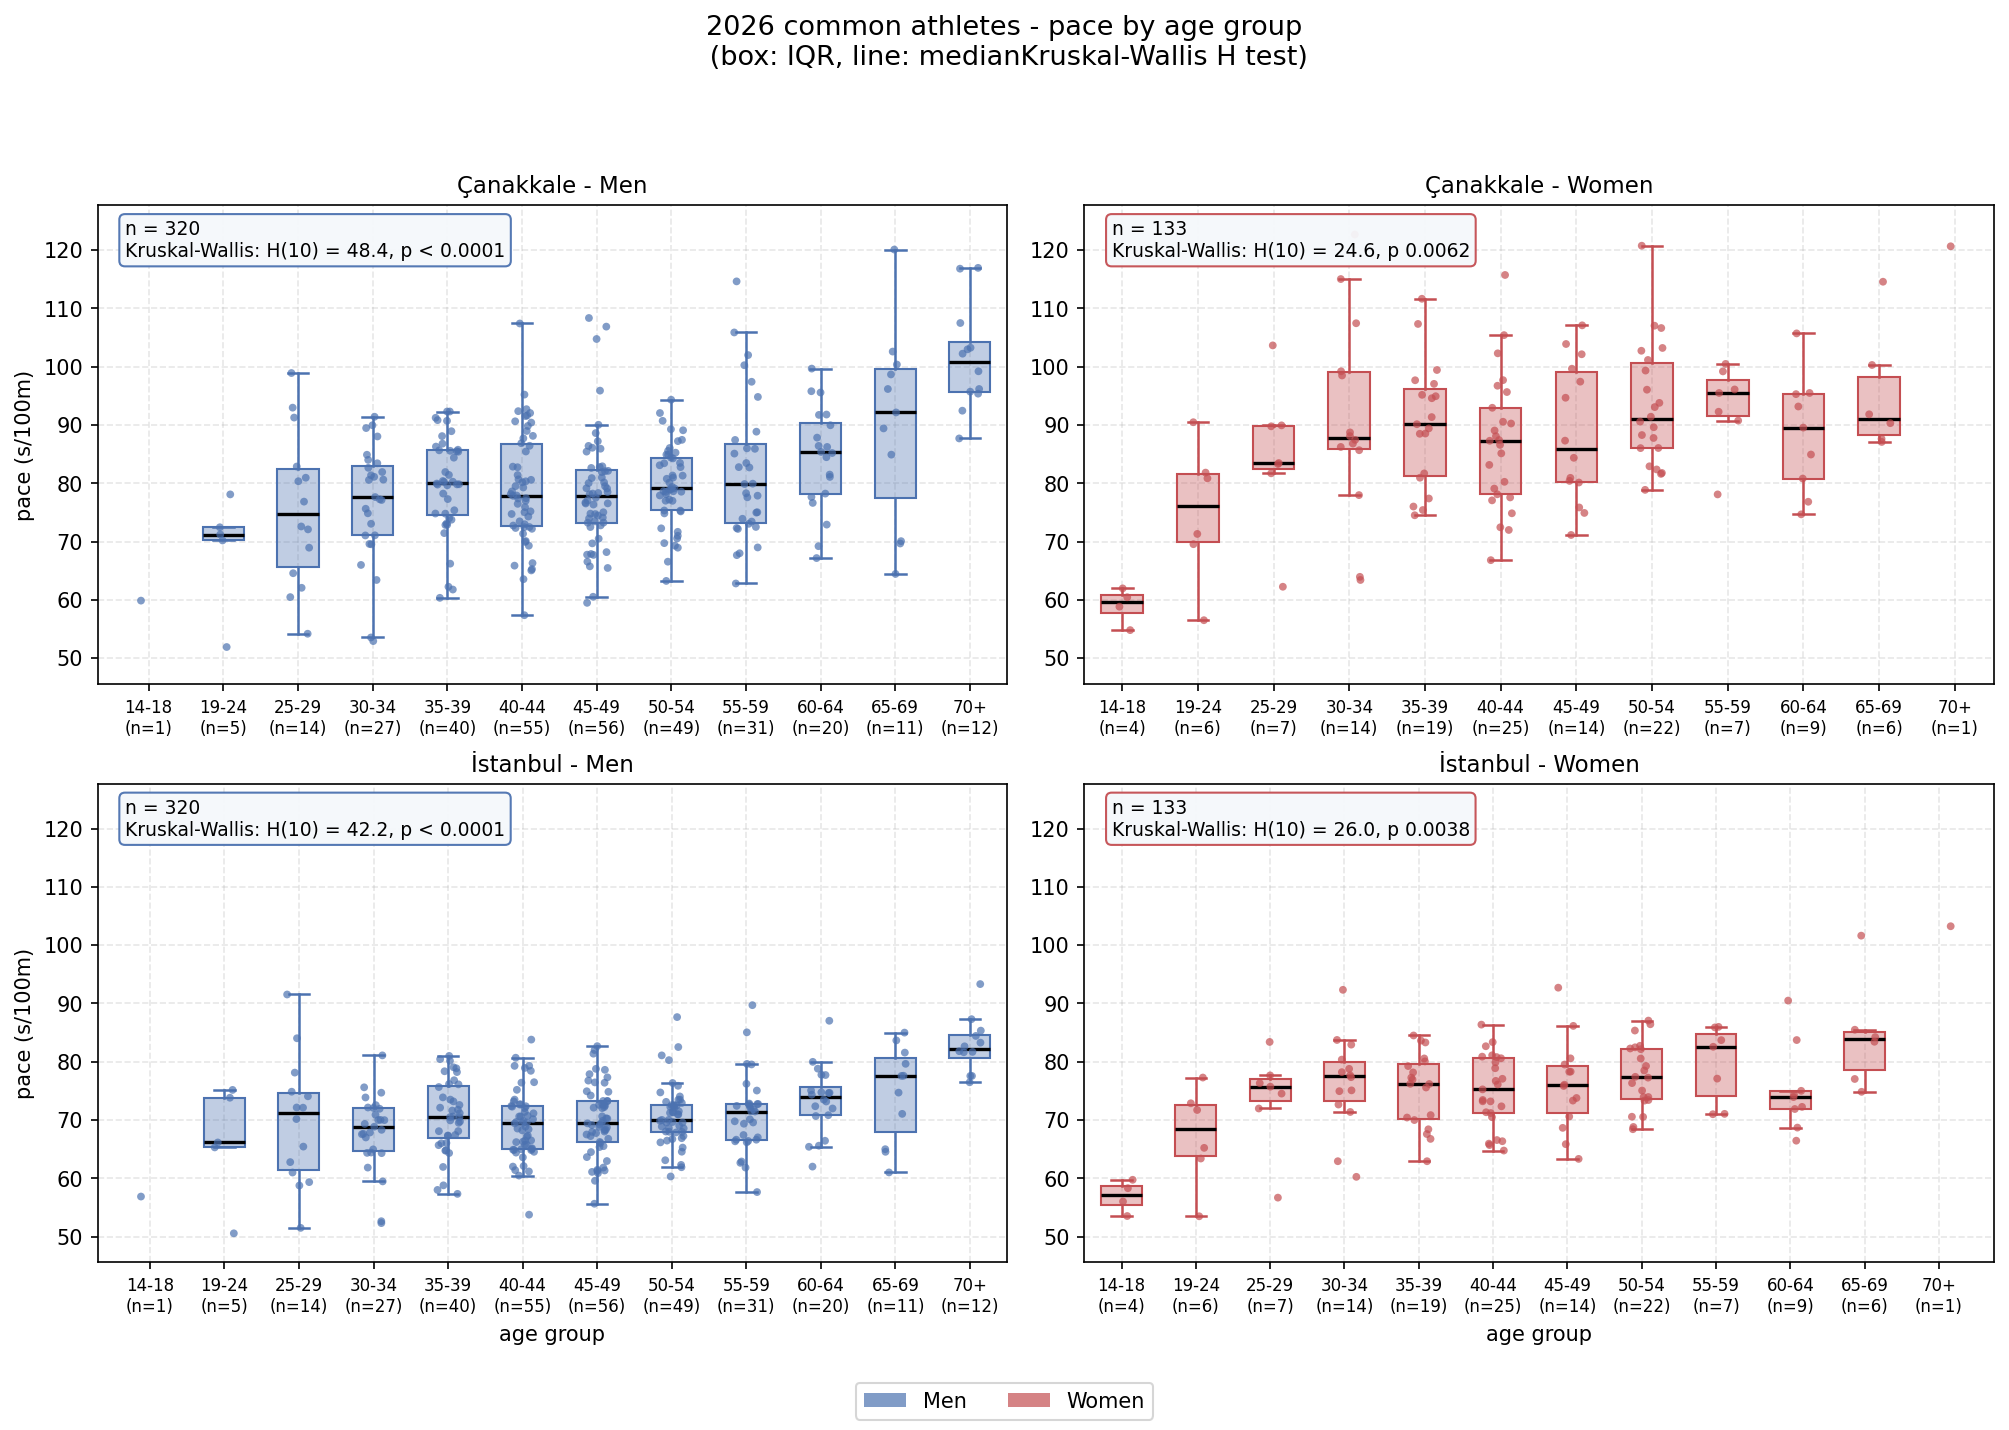
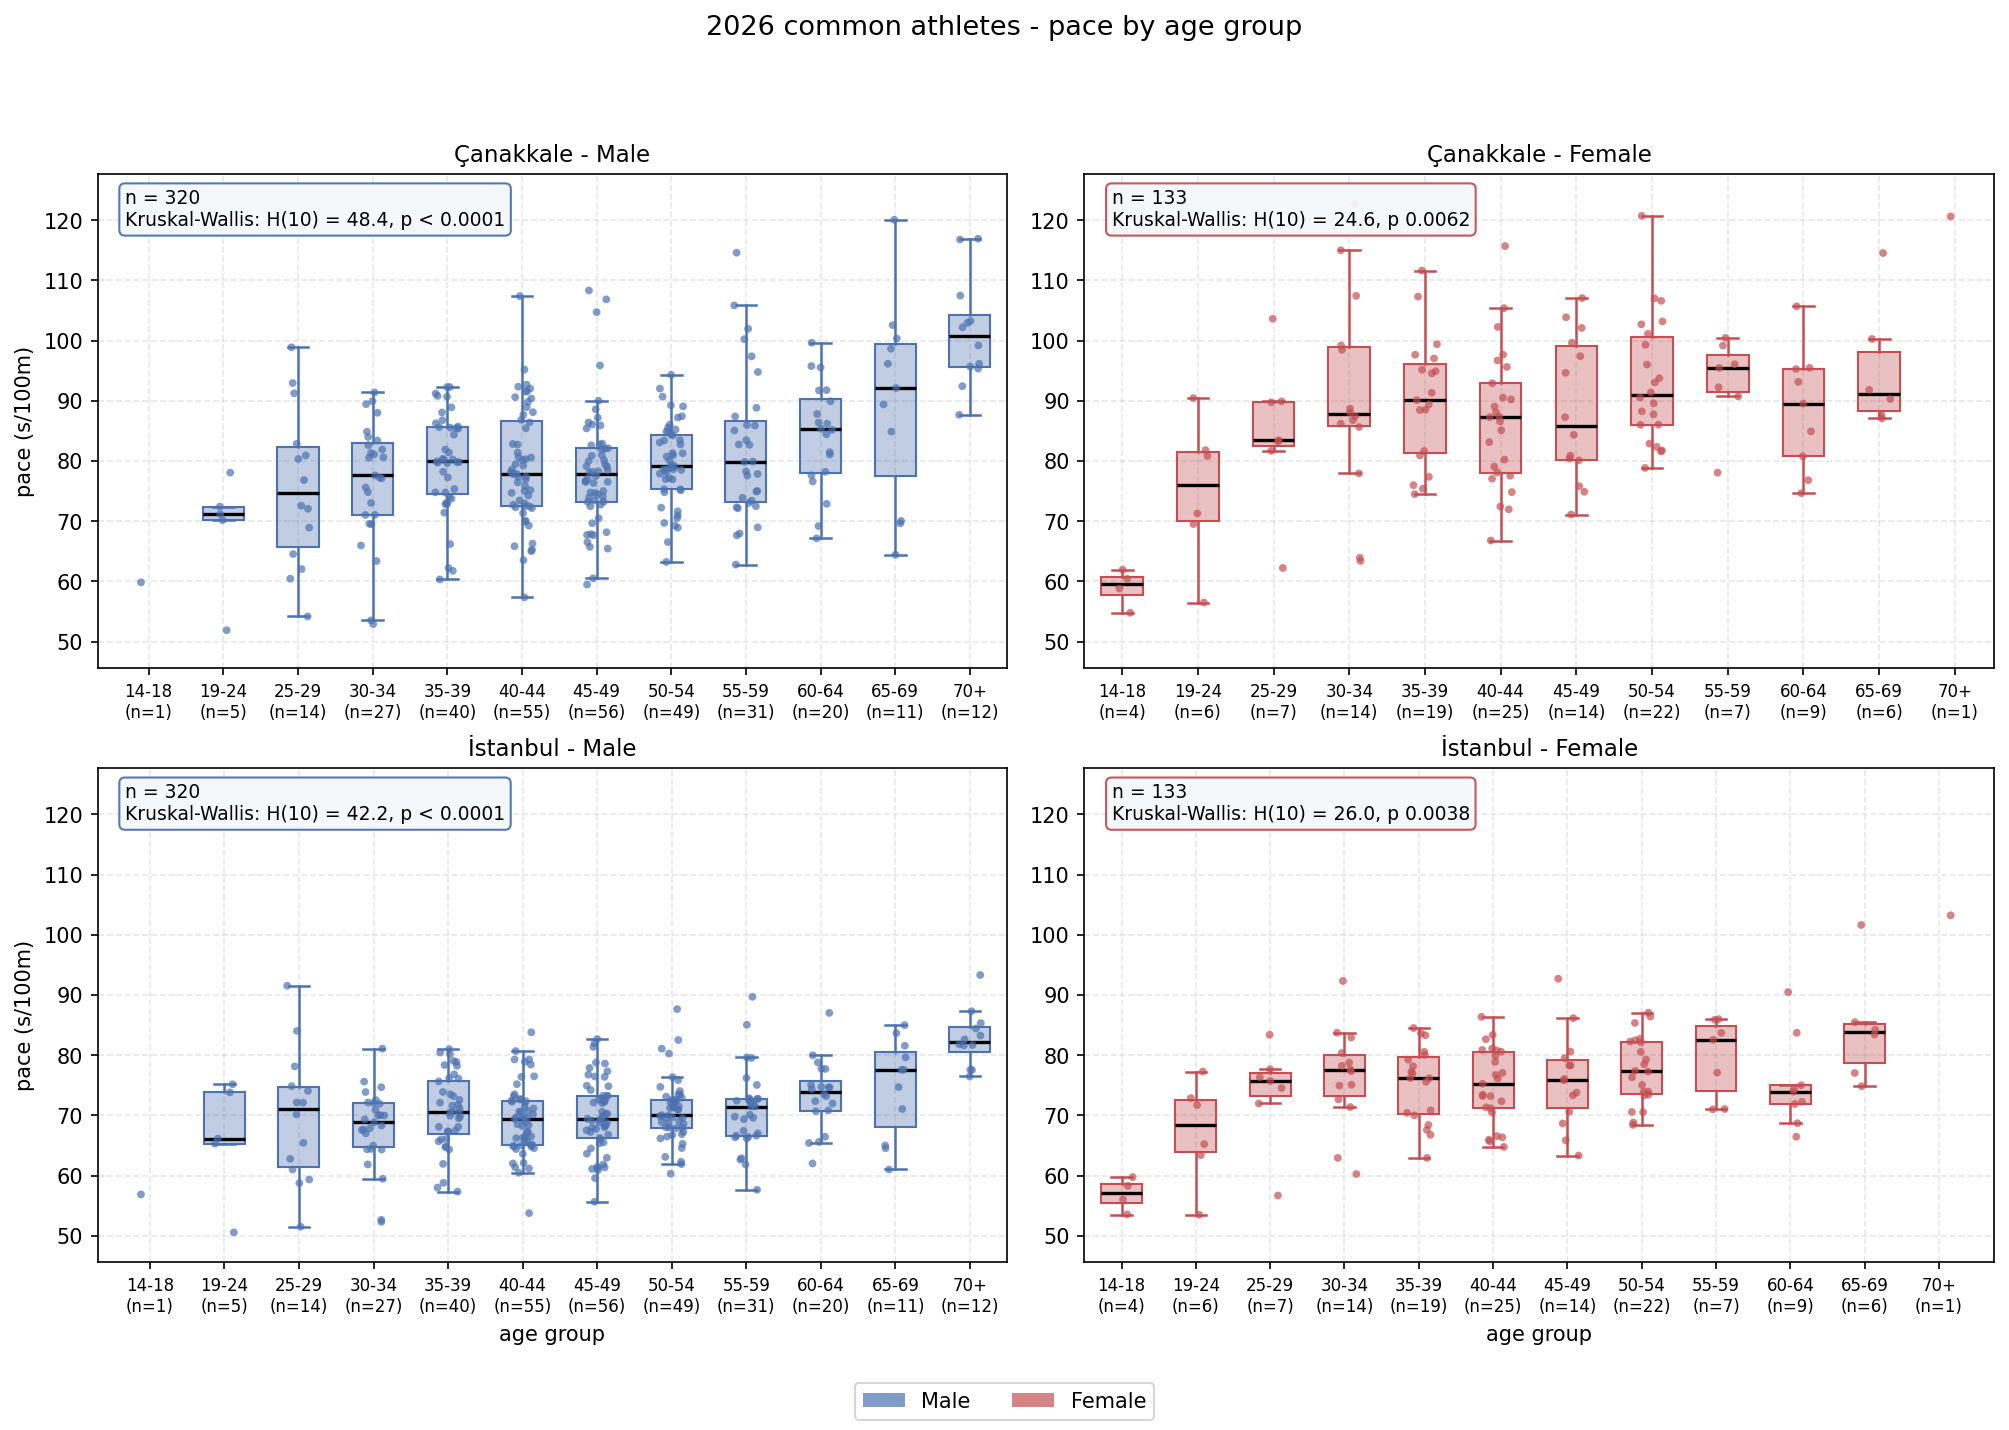
feat(charts): remove docstrings and comments

diff --git a/2026/common_2026_charts.py b/2026/common_2026_charts.py
@@ -1,24 +1,3 @@
-from __future__ import annotations
-
-"""
-Çıktılar:
-  2026/output/canakkale_vs_istanbul_common_pace.png -> tempo korelasyon grafiği
-     (sahibin noktası bib 230 / bib 1831 - Hakkı Erdem Günal, M, 2004 -
-     koyu kalın mavi nokta ile vurgulanır ve legendde adı + bib ile geçer)
-  2026/output/age_group_kruskal_wallis.png  -> yaş grubu x tempo + K-W testi
-
-Veri, common_2026_dataset modülündeki load_common() ile HAM datasetlerden
-yeniden kurulur; yani önce common_2026_dataset.py çalıştırılması gerekmez
-(common_2026_dataset.csv bu grafiklerin girdisi değildir).
-
-Not: Mesafeler (5 km vs 6.5 km) farklı olduğundan korelasyon için tempo
-sütunlarını (pace_*_s100m) kullanın.
-
-Kullanım:
-  python3 common_2026_charts.py         # grafikleri üretir (kaydeder)
-  python3 common_2026_charts.py --show  # grafiği pencere olarak aç (kaydetmez)
-"""
-
 import argparse
 import math
 import re
@@ -50,18 +29,12 @@ CHART_PNG = OUT_DIR / "canakkale_vs_istanbul_common_pace.png"
 KW_CHART_PNG = OUT_DIR / "age_group_kruskal_wallis.png"
 
 def _p_two_sided(r, n):
-    """H0: gerçek korelasyon = 0 için iki kuyruklu yaklaşık p-değeri.
-
-    t = r * sqrt((n - 2) / (1 - r^2))  büyük n'de yaklaşık standart normaldir.
-    scipy bağımlılığı olmasın diye normal CDF (erfc) ile hesaplanır.
-    """
     if n <= 3 or not -1.0 < r < 1.0:
         return float("nan")
     t = r * math.sqrt((n - 2) / (1.0 - r * r))
     return math.erfc(abs(t) / math.sqrt(2.0))
 
 def _pearson_ci95(r, n):
-    """Pearson r için Fisher z dönüşümüyle %95 güven aralığı."""
     if n <= 3 or not -1.0 < r < 1.0:
         return float("nan"), float("nan")
     z = math.atanh(r)
@@ -74,10 +47,6 @@ def _fmt_p(p):
     return "< 0.0001" if p < 0.0001 else f"{p:.4f}"
 
 def age_band_of(value):
-    """Age_group etiketinden yaş bandını çıkarır.
-
-    'Male 19-24' ve 'Male B(19-24)' -> '19-24''Male 70+' -> '70+'.
-    """
     s = "" if value is None or pd.isna(value) else str(value)
     m = re.search(r"\(([^()]*)\)", s)
     inner = m.group(1) if m else s
@@ -85,16 +54,10 @@ def age_band_of(value):
     return mm.group(1).replace(" ", "") if mm else inner.strip()
 
 def band_sort_key(band):
-    """Yaş bandını sıralamak için: '19-24' -> 19, '70+' -> 70."""
     m = re.match(r"\s*(\d{1,2})", str(band))
     return int(m.group(1)) if m else 999
 
 def _chi_square_sf(x, df):
-    """Ki-kare (df) dağılımının üst kuyruk olasılığı P(X > x).
-
-    df/2 şeklindeki serbestlik derecesiyle eksik gama oranı Q(a, x/2)'ye
-    eşittirscipy'siz olarak seri + sürekli kesir (gser/gcf) ile hesaplanır.
-    """
     if df <= 0:
         return float("nan")
     if x <= 0.0:
@@ -107,7 +70,6 @@ def _chi_square_sf(x, df):
     return max(0.0, min(1.0, _gamma_q_cf(a, x2)))
 
 def _gamma_p_series(a, x):
-    """Alt eksik gama oranı P(a, x) - x < a+1 için seri açılımı."""
     if x <= 0.0:
         return 0.0
     ap, s, d = a, 1.0 / a, 1.0 / a
@@ -120,7 +82,6 @@ def _gamma_p_series(a, x):
     return s * math.exp(-x + a * math.log(x) - math.lgamma(a))
 
 def _gamma_q_cf(a, x):
-    """Üst eksik gama oranı Q(a, x) - x >= a+1 için Lentz sürekli kesri."""
     eps, fpmin = 3e-14, 1e-300
     b = x + 1.0 - a
     c = 1.0 / fpmin
@@ -143,11 +104,6 @@ def _gamma_q_cf(a, x):
     return math.exp(-x + a * math.log(x) - math.lgamma(a)) * h
 
 def _kruskal_wallis(groups):
-    """Kruskal-Wallis H testi (bağ/ties düzeltmeli).
-
-    groups: her biri bir grup için değerler içeren liste/array'ler.
-    Dönüş: (H, serbestlik derecesi = k-1, üst kuyruk p-değeri).
-    """
     cleaned = [np.asarray(g, dtype=float) for g in groups]
     cleaned = [g[~np.isnan(g)] for g in cleaned]
     cleaned = [g for g in cleaned if g.size]
@@ -168,7 +124,6 @@ def _kruskal_wallis(groups):
         start += ni
     h = 12.0 / (n * (n + 1.0)) * h - 3.0 * (n + 1.0)
 
-    # Bağ (ties) düzeltmesi: h /= (1 - Σ(t^3-t) / (n³-n))
     counts = pooled.value_counts().to_numpy()
     tie_corr = 1.0 - float(np.sum(counts ** 3 - counts)) / (n ** 3 - n)
     if tie_corr > 0:
@@ -178,7 +133,6 @@ def _kruskal_wallis(groups):
     return float(h), dfree, _chi_square_sf(h, dfree)
 
 def _finished_common(out):
-    """Her iki yarışı da bitiren, tempo sütunları geçerli ortakları filtreler."""
     fin = out.dropna(subset=["pace_canakkale_s100m", "pace_istanbul_s100m"])
     fin = fin[fin["pace_canakkale_s100m"] > 0]
     fin = fin[fin["pace_istanbul_s100m"] > 0]
@@ -210,7 +164,7 @@ def _save_chart(fin, can_cfg, ist_cfg, show):
     fig, ax = plt.subplots(figsize=(8.2, 7.0))
     colors = {"M": "#4C72B0", "F": "#C44E52", "O": "#55A868"}
     for g, grp in fin.groupby(fin["gender"].fillna("O")):
-        ax.scatter(grp["pace_canakkale_s100m"], grp["pace_istanbul_s100m"], s=22, alpha=0.55, edgecolors="none", color=colors.get(g, "#55A868"), label={"M": "Men", "F": "Women"}.get(g, g))
+        ax.scatter(grp["pace_canakkale_s100m"], grp["pace_istanbul_s100m"], s=22, alpha=0.55, edgecolors="none", color=colors.get(g, "#55A868"), label={"M": "Male", "F": "Female"}.get(g, g))
 
     lim = (min(x.min(), y.min()) - 5, max(x.max(), y.max()) + 5)
     if len(fin) >= 2:
@@ -254,15 +208,7 @@ def _save_chart(fin, can_cfg, ist_cfg, show):
         print(f"Grafik kaydedildi: {CHART_PNG}")
     plt.close(fig)
 
-# --------------------------------------------------------------------------
-# yaş grupları - Kruskal-Wallis
-# --------------------------------------------------------------------------
-
 def _age_group_analysis(fin, show):
-    """Yaş grupları arasında tempo farkını Kruskal-Wallis H ile test eder
-
-    Cinsiyete göre katmanlar (yaş kategorileri M/F ayrıdır) ve her yarış için ayrı ayrı H testi yapar. Konsola özet tablosunu basar ve yaş grubu x tempo kutu grafiğini üretir (age_group_kruskal_wallis.png).
-    """
     bar = "=" * 66
     if fin is None or fin.empty:
         return
@@ -317,7 +263,7 @@ def _age_group_analysis(fin, show):
 
 def _save_agegroup_chart(df, show):
     races = (("canakkale", "Çanakkale"), ("istanbul", "İstanbul"))
-    genders = (("M", "Men", "#4C72B0"), ("F", "Women", "#C44E52"))
+    genders = (("M", "Male", "#4C72B0"), ("F", "Female", "#C44E52"))
     fig, axes = plt.subplots(2, 2, figsize=(13.5, 9.5))
     rng = np.random.default_rng(2026)
 
@@ -368,8 +314,8 @@ def _save_agegroup_chart(df, show):
             if j == 0:
                 ax.set_ylabel("pace (s/100m)")
 
-    fig.suptitle("2026 common athletes - pace by age group\n (box: IQR, line: medianKruskal-Wallis H test)", fontsize=13, y=0.99)
-    fig.legend(handles=[Patch(facecolor="#4C72B0", alpha=0.7, label="Men"), Patch(facecolor="#C44E52", alpha=0.7, label="Women")], loc="lower center", ncol=2, frameon=True)
+    fig.suptitle("2026 common athletes - pace by age group", fontsize=13, y=0.99)
+    fig.legend(handles=[Patch(facecolor="#4C72B0", alpha=0.7, label="Male"), Patch(facecolor="#C44E52", alpha=0.7, label="Female")], loc="lower center", ncol=2, frameon=True)
     fig.tight_layout(rect=(0, 0.045, 1, 0.95))
 
     if show:
